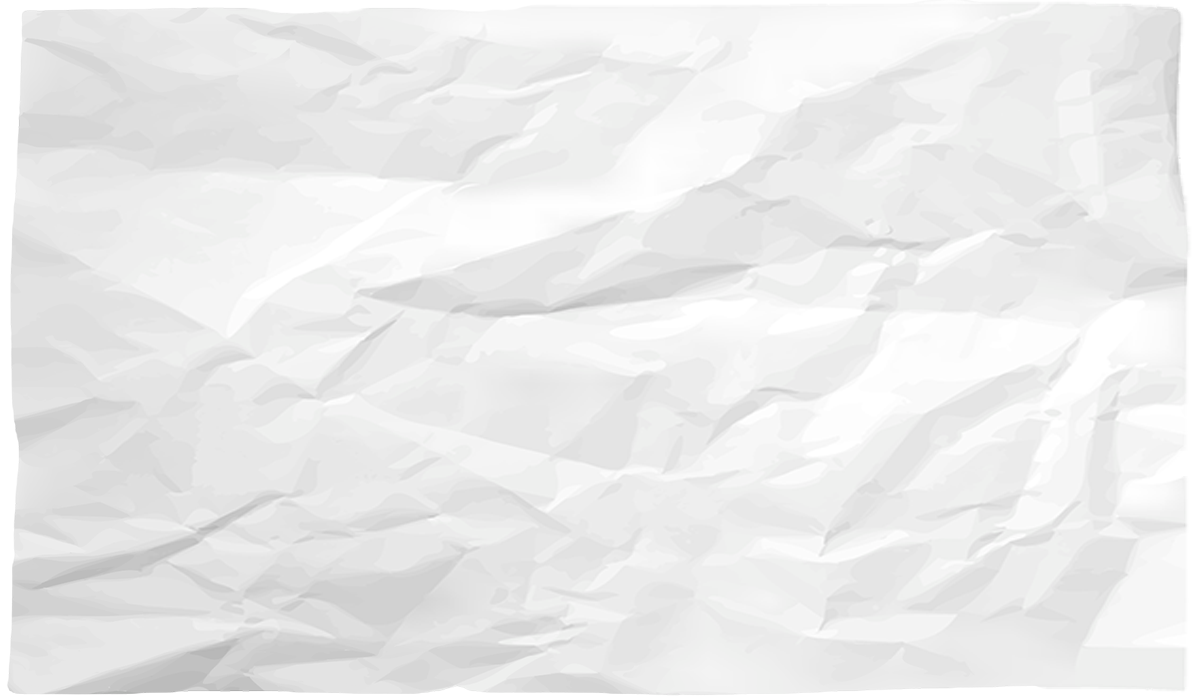
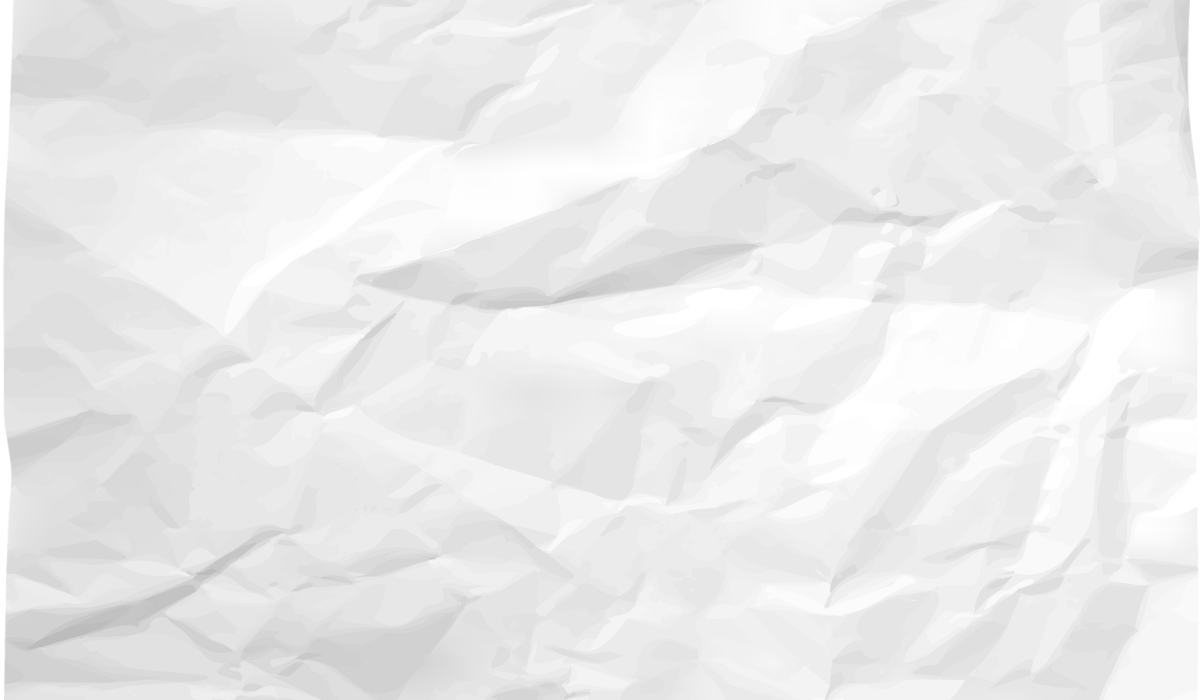
新增紙張

diff --git a/word-notebook/README.md b/word-notebook/README.md
@@ -1,0 +1,82 @@
+# 美麗的詞彙
+
+```
+index.html        寫卡片的頁面（HTML 結構）
+book.html         翻頁收集簿（HTML 結構）
+css/maker.css     寫卡片頁的樣式
+css/book.css      收集簿的樣式
+js/maker.js       寫卡片頁的程式：紙張、字體、文字排版、手寫、存檔
+js/book.js        收集簿的程式：讀 entries.json、排頁、翻頁、放大
+entries.json      收集簿收錄了哪些卡片
+cards/            收錄的卡片圖片
+papers/           玩家可以選的紙張（圖片＋papers.json）
+```
+
+想改什麼大概去哪裡找：
+
+- 文字說明 → `index.html`
+- 顏色、間距、字級 → `css/` 裡對應的檔案
+- 字體、墨水顏色的選項 → `js/maker.js` 最上面的 `FONTS`、`INKS`
+- 卡片上字的位置和大小 → `js/maker.js` 的 `drawText`
+- 收集簿每面放幾張 → `js/book.js` 最上面的 `PER_PAGE`
+
+## 第一次上線（GitHub Pages）
+
+1. 在 GitHub 建一個新的公開 repo，把整個資料夾的檔案推上去。
+2. repo 的 Settings → Pages → Source 選「Deploy from a branch」，分支選 `main`、資料夾選 `/ (root)`，儲存。
+3. 等一兩分鐘，網址會是 `https://你的帳號.github.io/repo名稱/`。
+   收集簿在同一個網址後面加 `book.html`。
+
+## 收錄一張卡片
+
+1. 把玩家貼在噗浪的圖片存下來，放進 `cards/`，檔名建議用英數字，例如 `001.png`。
+2. 打開 `entries.json`，在 `entries` 裡加一行（照順序排，每面放 3 張）：
+
+   ```json
+   { "src": "cards/001.png", "name": "角色名", "word": "詞彙" }
+   ```
+
+   `name` 和 `word` 只是給讀屏軟體看的替代文字，可以省略，但建議留著。
+   注意每一行之間要有逗號，最後一行後面不能有逗號。
+
+3. commit、push，等一兩分鐘重新整理收集簿就會看到。
+
+## 新增紙張
+
+1. 做一張 **1200×700** 的圖（比例 600:350 也可以，會自動縮放）。
+   想要撕破、不規則的邊緣，就用透明背景存成 PNG。
+2. 放進 `papers/`，在 `papers/papers.json` 加一行：
+
+   ```json
+   {
+     "id": "kraft",
+     "label": "牛皮紙",
+     "src": "papers/kraft.png",
+     "left": 0,
+     "desc": "一張粗糙的牛皮紙。"
+   }
+   ```
+
+   - `id`：英數字，不要重複
+   - `label`：按鈕上顯示的名稱
+   - `left`：左邊要空出的寬度（以 600 寬計算），例如紙的左邊有裝飾或紅線，文字會往右邊挪；沒有就填 0
+   - `desc`（可省略）：選了這張紙之後，卡片下方出現的灰色小字
+   - 「舊筆記本」的小字在 `js/maker.js` 最上面的 `PAPERS` 裡改
+
+3. 設計時留意這幾個位置會放字：右上角（城鎮編號）、正中間（讀音、詞彙、辭義）、右下角（署名）。裝飾盡量避開。
+4. 範例的 `pink-grid.png`、`torn-old.png` 是我用程式隨便做的，可以直接刪掉換成你的。
+   刪掉時記得也把 `papers.json` 裡對應那一行拿掉。
+
+「舊筆記本」是程式畫的，永遠會是第一個選項。
+
+## 正式開放前
+
+- 刪掉 `cards/sample-*.png`，並把 `entries.json` 的 `entries` 清成 `[]`。
+- `entries.json` 的 `title`、`subtitle`、`intro` 可以改封面標題、副標，以及扉頁的文字（`intro` 裡用 `\n` 換行）。翻開封面後的第一個跨頁就是扉頁，`intro` 沒寫的話會是空白的。
+- `index.html` 最上方的筆記本敘述，以及最下面「怎麼參加」的文字，都可以直接改。
+
+## 小提醒
+
+- 直接在電腦上雙擊打開 `book.html` 會讀不到 `entries.json`，這是瀏覽器的限制，要用 GitHub Pages 的網址看。
+  本機想預覽的話，在資料夾裡執行 `python -m http.server`，再開 `http://localhost:8000/book.html`。
+- 字體從 Google Fonts 載入；如果某種字體載不到，會自動改用系統字體。

diff --git a/README.md b/README.md
@@ -13,6 +13,7 @@ papers/           玩家可以選的紙張（圖片＋papers.json）
 ```
 
 想改什麼大概去哪裡找：
+
 - 文字說明 → `index.html`
 - 顏色、間距、字級 → `css/` 裡對應的檔案
 - 字體、墨水顏色的選項 → `js/maker.js` 最上面的 `FONTS`、`INKS`
@@ -37,6 +38,7 @@ papers/           玩家可以選的紙張（圖片＋papers.json）
 
    `name` 和 `word` 只是給讀屏軟體看的替代文字，可以省略，但建議留著。
    注意每一行之間要有逗號，最後一行後面不能有逗號。
+
 3. commit、push，等一兩分鐘重新整理收集簿就會看到。
 
 ## 新增紙張
@@ -52,6 +54,7 @@ papers/           玩家可以選的紙張（圖片＋papers.json）
    - `id`：英數字，不要重複
    - `label`：按鈕上顯示的名稱
    - `left`：左邊要空出的寬度（以 600 寬計算），例如紙的左邊有裝飾或紅線，文字會往右邊挪；沒有就填 0
+
 3. 設計時留意這幾個位置會放字：右上角（城鎮編號）、正中間（讀音、詞彙、辭義）、右下角（署名）。裝飾盡量避開。
 4. 範例的 `pink-grid.png`、`torn-old.png` 是我用程式隨便做的，可以直接刪掉換成你的。
    刪掉時記得也把 `papers.json` 裡對應那一行拿掉。
